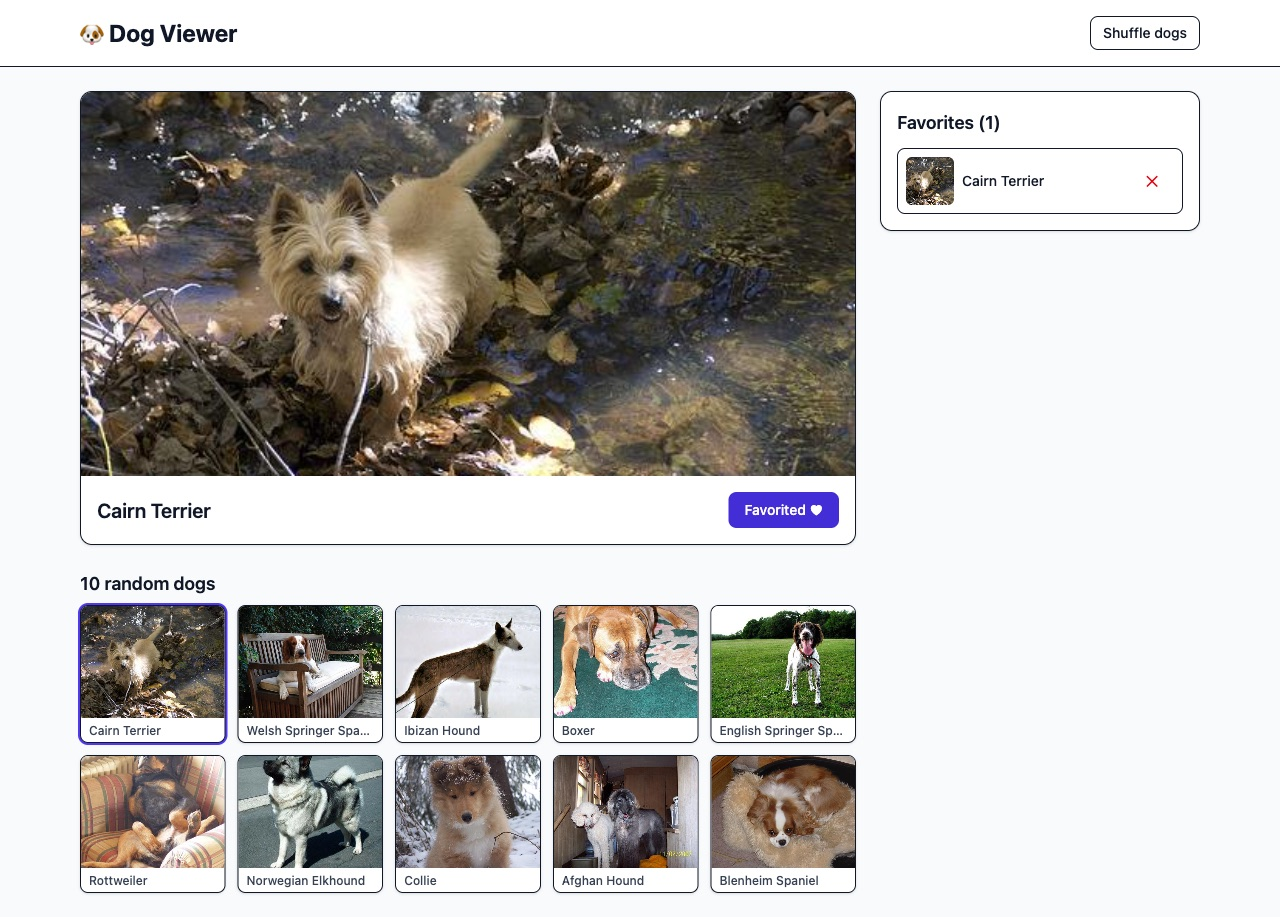
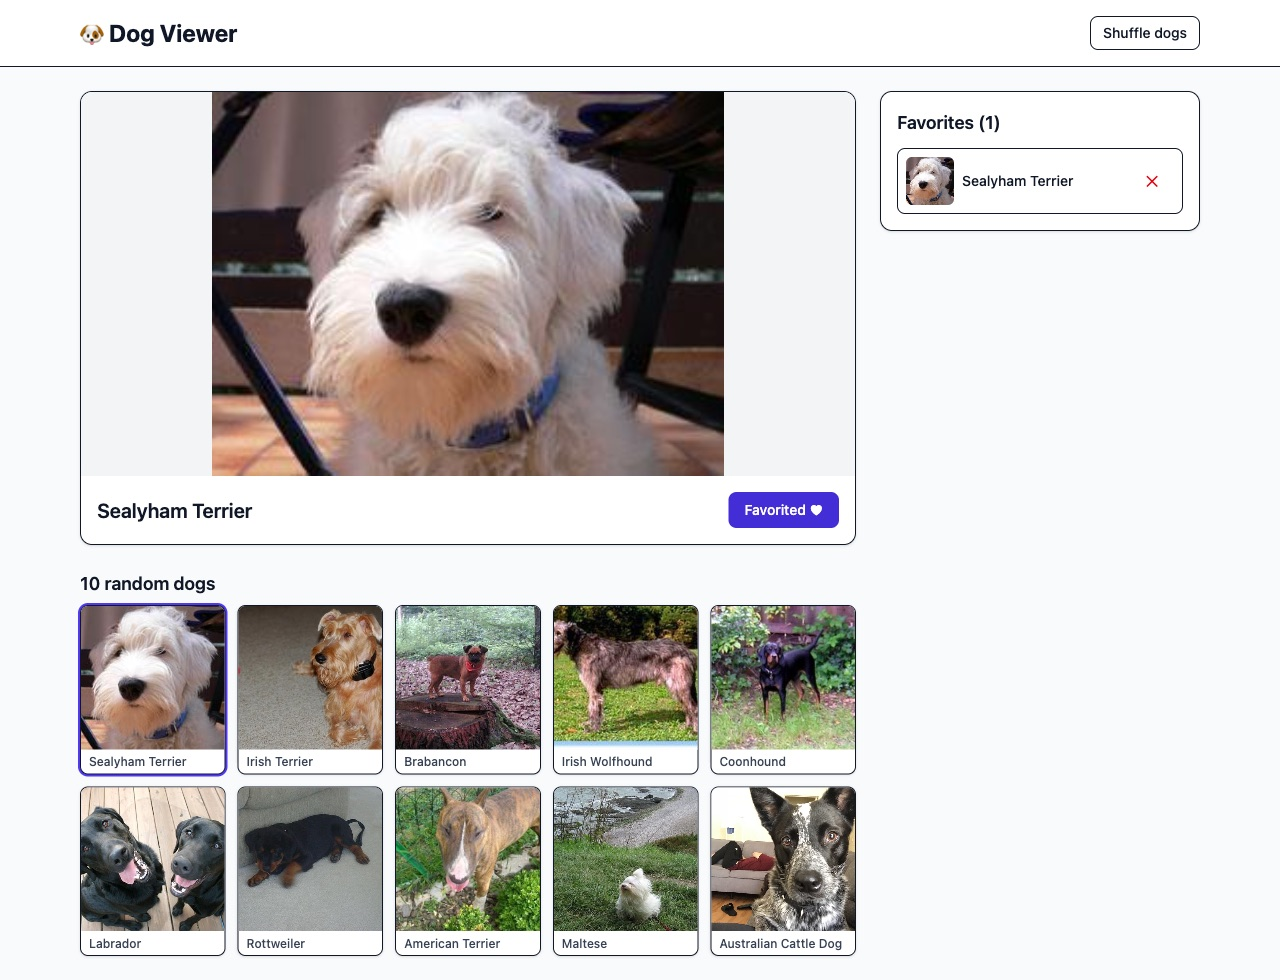
Show the whole main image and use uniform square thumbnails
- Main image uses object-contain on a neutral background: no cropping and
  minimal upscaling of the API's ~500px originals
- Gallery cells become true squares with object-cover for a tidy grid
- Refresh the README screenshot

diff --git a/src/components/GalleryGrid.tsx b/src/components/GalleryGrid.tsx
@@ -33,7 +33,7 @@ export function GalleryGrid({ dogs, selectedUrl, onSelect }: Props) {
                 alt={`${dog.breed} dog thumbnail`}
                 loading="lazy"
                 decoding="async"
-                className="h-28 w-full object-cover transition-transform duration-200 ease-in-out group-hover:scale-105 group-focus-visible:scale-105 motion-reduce:transform-none motion-reduce:transition-none"
+                className="aspect-square w-full object-cover transition-transform duration-200 ease-in-out group-hover:scale-105 group-focus-visible:scale-105 motion-reduce:transform-none motion-reduce:transition-none"
               />
               <span className="block truncate px-2 py-1 text-xs font-medium capitalize text-gray-700">
                 {dog.breed}

diff --git a/src/components/MainImage.test.tsx b/src/components/MainImage.test.tsx
@@ -32,6 +32,7 @@ describe('MainImage', () => {
     )
     expect(screen.getByTestId('main-image')).toHaveAttribute('src', dog.url)
     expect(screen.getByTestId('main-image')).toHaveAttribute('decoding', 'async')
+    expect(screen.getByTestId('main-image')).toHaveClass('object-contain')
     expect(screen.getByTestId('main-breed')).toHaveTextContent('Pug')
 
     const button = screen.getByRole('button', { name: /favorite/i })

diff --git a/src/components/MainImage.tsx b/src/components/MainImage.tsx
@@ -42,7 +42,7 @@ export function MainImage({
         alt={`${dog.breed} dog`}
         fetchPriority="high"
         decoding="async"
-        className="h-96 w-full object-cover"
+        className="h-96 w-full bg-gray-100 object-contain"
         data-testid="main-image"
       />
       <div className="flex items-center justify-between gap-4 p-4">
